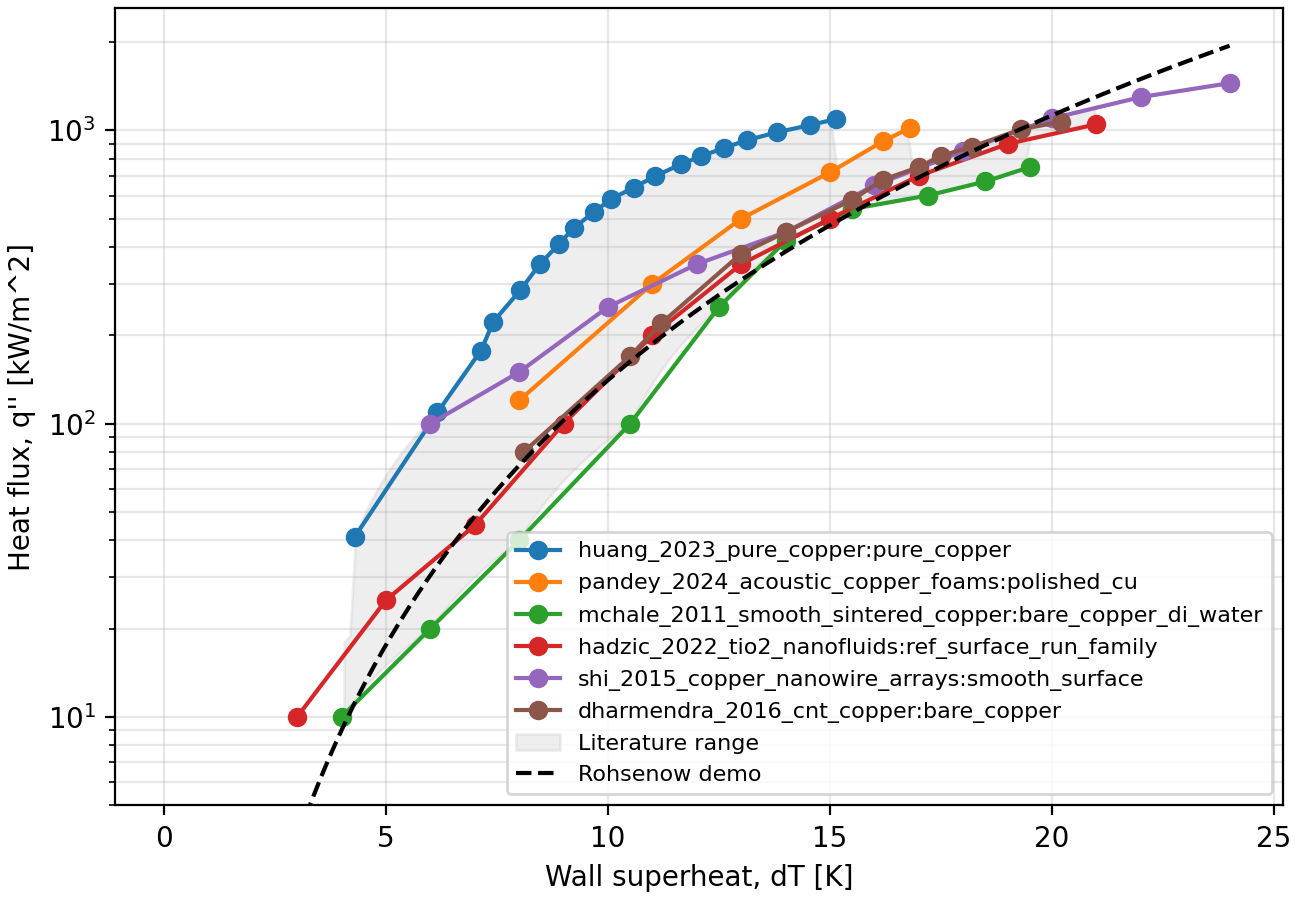
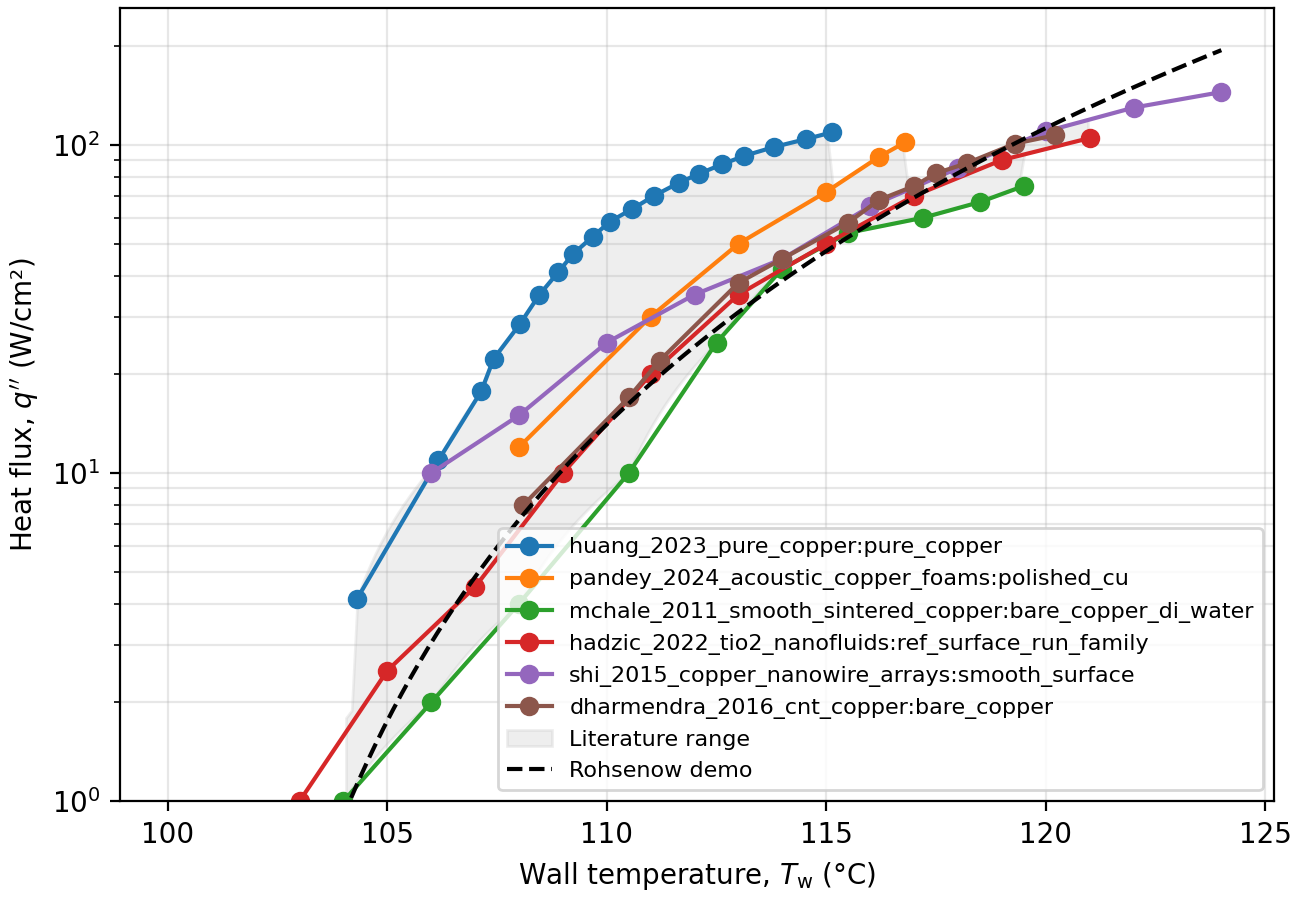
Update test1 plot axis labels

Changed region(s): [[0.0, 0.0, 1.0, 0.9956]]

diff --git a/src/litcomp/plotting.py b/src/litcomp/plotting.py
@@ -8,6 +8,8 @@ import numpy as np
 from .models import RohsenowParameters, rohsenow_heat_flux
 from .schema import DataPoint
 
+WATER_SATURATION_TEMPERATURE_1ATM_C = 100.0
+
 
 def plot_boiling_curve(
     points: list[DataPoint],
@@ -24,8 +26,8 @@ def plot_boiling_curve(
     for (paper_id, curve_id), group in groups.items():
         sorted_group = sorted(group, key=lambda point: point.wall_superheat_K or 0.0)
         ax.plot(
-            [point.wall_superheat_K for point in sorted_group],
-            [(point.heat_flux_W_m2 or 0.0) / 1000.0 for point in sorted_group],
+            [_wall_temperature_C(point) for point in sorted_group],
+            [_heat_flux_W_cm2(point) for point in sorted_group],
             marker="o",
             linestyle="-",
             label=f"{paper_id}:{curve_id}",
@@ -34,12 +36,18 @@ def plot_boiling_curve(
         _plot_literature_envelope(ax, groups)
     if include_rohsenow:
         x_max = max(point.wall_superheat_K or 1.0 for point in points)
-        x = np.linspace(0.1, max(20.0, x_max), 120)
-        ax.plot(x, rohsenow_heat_flux(x, RohsenowParameters()) / 1000.0, "k--", label="Rohsenow demo")
-    ax.set_xlabel("Wall superheat, dT [K]")
-    ax.set_ylabel("Heat flux, q'' [kW/m^2]")
+        superheat = np.linspace(0.1, max(20.0, x_max), 120)
+        wall_temperature = WATER_SATURATION_TEMPERATURE_1ATM_C + superheat
+        ax.plot(
+            wall_temperature,
+            rohsenow_heat_flux(superheat, RohsenowParameters()) / 10000.0,
+            "k--",
+            label="Rohsenow demo",
+        )
+    ax.set_xlabel(r"Wall temperature, $T_{\mathrm{w}}$ (°C)")
+    ax.set_ylabel(r"Heat flux, $q''$ (W/cm²)")
     ax.set_yscale("log")
-    data_fluxes = [(point.heat_flux_W_m2 or 0.0) / 1000.0 for point in points if point.heat_flux_W_m2]
+    data_fluxes = [_heat_flux_W_cm2(point) for point in points if point.heat_flux_W_m2]
     if data_fluxes:
         ax.set_ylim(max(min(data_fluxes) * 0.5, 1.0), max(data_fluxes) * 1.8)
     ax.grid(True, which="both", alpha=0.3)
@@ -49,9 +57,19 @@ def plot_boiling_curve(
     return destination
 
 
+def _wall_temperature_C(point: DataPoint) -> float | None:
+    if point.wall_superheat_K is None:
+        return None
+    return WATER_SATURATION_TEMPERATURE_1ATM_C + point.wall_superheat_K
+
+
+def _heat_flux_W_cm2(point: DataPoint) -> float:
+    return (point.heat_flux_W_m2 or 0.0) / 10000.0
+
+
 def _plot_literature_envelope(ax: plt.Axes, groups: dict[tuple[str, str], list[DataPoint]]) -> None:
-    x_min = min(point.wall_superheat_K or 0.0 for group in groups.values() for point in group)
-    x_max = max(point.wall_superheat_K or 0.0 for group in groups.values() for point in group)
+    x_min = min(_wall_temperature_C(point) or 0.0 for group in groups.values() for point in group)
+    x_max = max(_wall_temperature_C(point) or 0.0 for group in groups.values() for point in group)
     x_grid = np.linspace(x_min, x_max, 160)
     lower: list[float] = []
     upper: list[float] = []
@@ -60,10 +78,10 @@ def _plot_literature_envelope(ax: plt.Axes, groups: dict[tuple[str, str], list[D
         y_values: list[float] = []
         for group in groups.values():
             sorted_group = sorted(group, key=lambda point: point.wall_superheat_K or 0.0)
-            x_points = np.array([point.wall_superheat_K for point in sorted_group if point.wall_superheat_K is not None])
-            y_points = np.array(
-                [(point.heat_flux_W_m2 or 0.0) / 1000.0 for point in sorted_group if point.wall_superheat_K is not None]
+            x_points = np.array(
+                [_wall_temperature_C(point) for point in sorted_group if point.wall_superheat_K is not None]
             )
+            y_points = np.array([_heat_flux_W_cm2(point) for point in sorted_group if point.wall_superheat_K is not None])
             if len(x_points) >= 2 and x_points[0] <= x_value <= x_points[-1]:
                 y_values.append(float(np.interp(x_value, x_points, y_points)))
         if len(y_values) >= 2:
